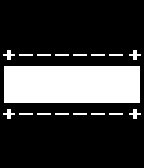
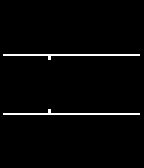
Pebble part set up
TODO: Spritz logic

diff --git a/Pebble/pebblec/src/main.c b/Pebble/pebblec/src/main.c
@@ -4,14 +4,15 @@
 #define KEY_CONDITIONS 1
   
 static Window *s_main_window;
-static TextLayer *s_time_layer;
-static TextLayer *s_weather_layer;
+static TextLayer *s_word_layer;
+static TextLayer *s_status_layer;
 
-static GFont s_time_font;
-static GFont s_weather_font;
+static GFont s_word_font;
+static GFont s_status_font;
 
 static BitmapLayer *s_background_layer;
 static GBitmap *s_background_bitmap;
+static char * content;
 
 static void update_time() {
   // Get a tm structure
@@ -19,19 +20,14 @@ static void update_time() {
   struct tm *tick_time = localtime(&temp);
 
   // Create a long-lived buffer
-  static char buffer[] = "00:00";
+  static char buffer[] = "Spribblealism";
 
-  // Write the current hours and minutes into the buffer
-  if(clock_is_24h_style() == true) {
-    //Use 2h hour format
-    strftime(buffer, sizeof("00:00"), "%H:%M", tick_time);
-  } else {
-    //Use 12 hour format
-    strftime(buffer, sizeof("00:00"), "%I:%M", tick_time);
-  }
+  // split content to get clean word everytime it's called
+
+  // strftime(buffer, sizeof("00:00"), "%H:%M", tick_time);
 
   // Display this time on the TextLayer
-  text_layer_set_text(s_time_layer, buffer);
+  text_layer_set_text(s_word_layer, buffer);
 }
 
 static void main_window_load(Window *window) {
@@ -42,32 +38,32 @@ static void main_window_load(Window *window) {
   layer_add_child(window_get_root_layer(window), bitmap_layer_get_layer(s_background_layer));
   
   // Create time TextLayer
-  s_time_layer = text_layer_create(GRect(5, 52, 139, 50));
-  text_layer_set_background_color(s_time_layer, GColorClear);
-  text_layer_set_text_color(s_time_layer, GColorBlack);
-  text_layer_set_text(s_time_layer, "00:00");
+  s_word_layer = text_layer_create(GRect(3, 72, 139, 50));
+  text_layer_set_background_color(s_word_layer, GColorClear);
+  text_layer_set_text_color(s_word_layer, GColorWhite);
+  text_layer_set_text(s_word_layer, "Spribblealism");
   
   //Create GFont
-  s_time_font = fonts_load_custom_font(resource_get_handle(RESOURCE_ID_FONT_PERFECT_DOS_48));
+  s_word_font = fonts_load_custom_font(resource_get_handle(RESOURCE_ID_FONT_PERFECT_DOS_16));
 
   //Apply to TextLayer
-  text_layer_set_font(s_time_layer, s_time_font);
-  text_layer_set_text_alignment(s_time_layer, GTextAlignmentCenter);
+  text_layer_set_font(s_word_layer, s_word_font);
+  text_layer_set_text_alignment(s_word_layer, GTextAlignmentCenter);
 
   // Add it as a child layer to the Window's root layer
-  layer_add_child(window_get_root_layer(window), text_layer_get_layer(s_time_layer));
+  layer_add_child(window_get_root_layer(window), text_layer_get_layer(s_word_layer));
   
   // Create temperature Layer
-  s_weather_layer = text_layer_create(GRect(0, 130, 144, 25));
-  text_layer_set_background_color(s_weather_layer, GColorClear);
-  text_layer_set_text_color(s_weather_layer, GColorWhite);
-  text_layer_set_text_alignment(s_weather_layer, GTextAlignmentCenter);
-  text_layer_set_text(s_weather_layer, "Loading...");
+  s_status_layer = text_layer_create(GRect(0, 130, 144, 25));
+  text_layer_set_background_color(s_status_layer, GColorClear);
+  text_layer_set_text_color(s_status_layer, GColorWhite);
+  text_layer_set_text_alignment(s_status_layer, GTextAlignmentCenter);
+  text_layer_set_text(s_status_layer, "Loading...");
   
   // Create second custom font, apply it and add to Window
-  s_weather_font = fonts_load_custom_font(resource_get_handle(RESOURCE_ID_FONT_PERFECT_DOS_20));
-  text_layer_set_font(s_weather_layer, s_weather_font);
-  layer_add_child(window_get_root_layer(window), text_layer_get_layer(s_weather_layer));
+  s_status_font = fonts_load_custom_font(resource_get_handle(RESOURCE_ID_FONT_PERFECT_DOS_20));
+  text_layer_set_font(s_status_layer, s_status_font);
+  layer_add_child(window_get_root_layer(window), text_layer_get_layer(s_status_layer));
   
   // Make sure the time is displayed from the start
   update_time();
@@ -75,7 +71,7 @@ static void main_window_load(Window *window) {
 
 static void main_window_unload(Window *window) {
   //Unload GFont
-  fonts_unload_custom_font(s_time_font);
+  fonts_unload_custom_font(s_word_font);
   
   //Destroy GBitmap
   gbitmap_destroy(s_background_bitmap);
@@ -84,11 +80,11 @@ static void main_window_unload(Window *window) {
   bitmap_layer_destroy(s_background_layer);
   
   // Destroy TextLayer
-  text_layer_destroy(s_time_layer);
+  text_layer_destroy(s_word_layer);
   
   // Destroy weather elements
-  text_layer_destroy(s_weather_layer);
-  fonts_unload_custom_font(s_weather_font);
+  text_layer_destroy(s_status_layer);
+  fonts_unload_custom_font(s_status_font);
 }
 
 static void tick_handler(struct tm *tick_time, TimeUnits units_changed) {
@@ -138,7 +134,7 @@ static void inbox_received_callback(DictionaryIterator *iterator, void *context)
   
   // Assemble full string and display
   snprintf(weather_layer_buffer, sizeof(weather_layer_buffer), "%s, %s", temperature_buffer, conditions_buffer);
-  text_layer_set_text(s_weather_layer, weather_layer_buffer);
+  text_layer_set_text(s_status_layer, weather_layer_buffer);
 }
 
 static void inbox_dropped_callback(AppMessageResult reason, void *context) {
@@ -154,6 +150,9 @@ static void outbox_sent_callback(DictionaryIterator *iterator, void *context) {
 }
   
 static void init() {
+  // Spribble init
+  content = "Hi, this is team spribble at HackShanghai!";
+
   // Create main Window element and assign to pointer
   s_main_window = window_create();
 
